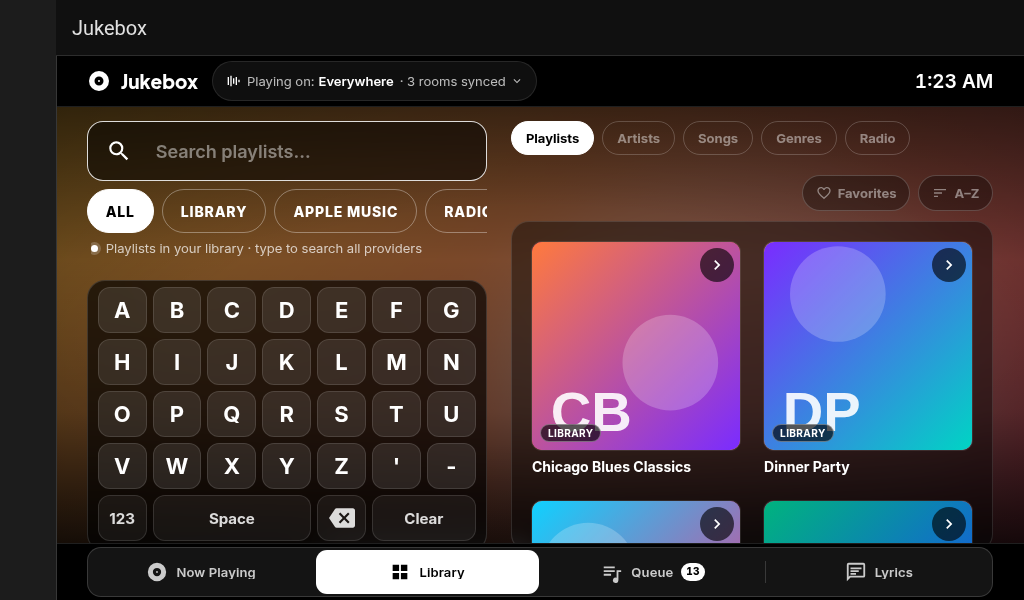
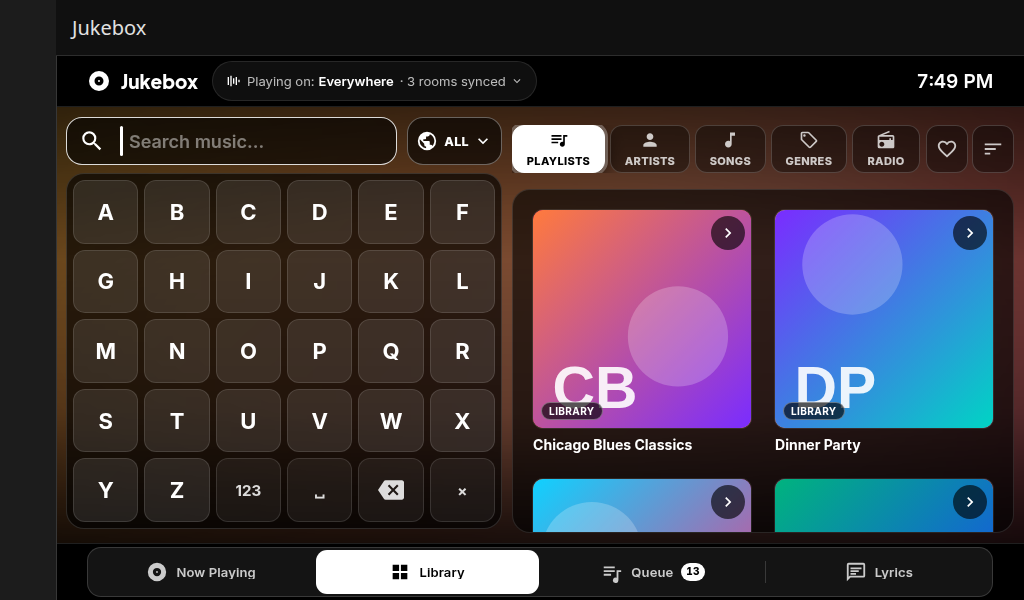
docs: filled 6×5 Library keyboard and side layout
Describe the always-open Library keyboard after #19 and replace the
Library screenshots so they match the shipped grid. Version stays 0.7.4.

diff --git a/README.md b/README.md
@@ -13,12 +13,12 @@ The card's element is still `custom:jukebox-card`, so existing dashboards keep w
 
 ## Screenshots
 
-**One Library tab, keyboard always open.** The on-screen keyboard stays open on every screen size. Beside the search box is an **All sources** button. Tap it and a row opens under the box: All, Library, then each music service set up in Music Assistant. You can turn on more than one. The button names the ones you picked and turns white while any is on. Tap it again to close the row. Big buttons pick Playlists, Artists, Songs, Genres or Radio, and the one you are in is solid white. On the library list, a heart and a sort button (A–Z) sit at the end of that row. There is no Keyboard pill and no hide handle. An empty box lists your library; typing searches that category, library first.
+**One Library tab, keyboard always open.** The on-screen keyboard stays open on every screen size. It is a full grid of 6 columns and 5 rows. On a tablet or a wider screen, including a portrait tablet, the keyboard sits on the left. The search box and the **All sources** button sit directly above the keys, and the category buttons and the results sit on the right. On a phone held upright the same keyboard sits along the bottom, with the search, the category buttons and the results above it. On a phone turned sideways the keyboard stays on the left and the search box stays with the results. Beside the search box is an **All sources** button. Tap it and a row opens under the box: All, Library, then each music service set up in Music Assistant. You can turn on more than one. On this layout the button reads **All**, or how many are on (for example **2 on**), and it turns white while any is on. Tap it again to close the row. Big buttons pick Playlists, Artists, Songs, Genres or Radio, and the one you are in is solid white. On the library list, a heart and a sort button sit at the end of that row. There is no Keyboard pill and no hide handle. An empty box lists your library; typing searches that category, library first.
 
 | Library (empty box) | Typing, all sources |
 |---|---|
 | ![Library](https://raw.githubusercontent.com/randybell/ha-jukebox-kiosk/main/docs/library-1280x800.png) | ![Library search, all sources](https://raw.githubusercontent.com/randybell/ha-jukebox-kiosk/main/docs/library-search-1280x800.png) |
-| **All sources open, two services on** | **Typing, Spotify only (820x1180)** |
+| **All sources open, two services on** | **Spotify only, keyboard on the left (820x1180)** |
 | ![All sources open](https://raw.githubusercontent.com/randybell/ha-jukebox-kiosk/main/docs/library-sources-1280x800.png) | ![Library search, Spotify only](https://raw.githubusercontent.com/randybell/ha-jukebox-kiosk/main/docs/library-provider-820x1180.png) |
 
 ![Now Playing at 1920x1080](https://raw.githubusercontent.com/randybell/ha-jukebox-kiosk/main/docs/now-1920x1080.png)
@@ -231,10 +231,10 @@ The layout is designed around a 1280x800 tablet. On larger screens the whole car
 
 - **One tab.** Since 0.7.2 the **Library** tab (`library_label`) is where you browse and search; there is no Search tab and no tile home by default (`library_layout: combined`).
 - **Search box, with All sources beside it.** The box uses the on-screen keyboard and searches on every keystroke (see [How search behaves](#how-search-behaves)). **All sources** sits next to the box. Tap it to open a row under the box: **All** (the usual choice), **Library**, then the music services set up in Music Assistant, using the names you gave them. A service that is not available is left out. The row wraps when there are many, and on a phone it scrolls sideways. It does not cover the screen. Tap **All sources** again to close the row.
-  - **Picking more than one.** Tapping a service while All is on selects just that service. Tapping more adds them. Tapping a selected one turns it off. When none is left, it goes back to **All**. Tapping **All** clears the others. While any are picked, the button turns white. On a larger screen it shows their names (for example "Apple Music + TuneIn"), shortened if they do not fit; the open row still shows each name in full. On a phone the button says **All**, or how many are on (for example "2 on"). The line under the box names the same selection.
+  - **Picking more than one.** Tapping a service while All is on selects just that service. Tapping more adds them. Tapping a selected one turns it off. When none is left, it goes back to **All**. Tapping **All** clears the others. While any are picked, the button turns white. With the keyboard always open, the button reads **All**, or how many are on (for example **2 on**); on a phone it is the globe icon only. The open row still shows each name in full, and the line under the box is hidden. With `library_keyboard: tap`, and on the separate Search tab, a larger screen shows the names on the button (for example "Apple Music + TuneIn"), shortened if they do not fit, a phone says **All** or how many are on, and the line under the box names the selection.
   - `search_sources: false` hides the button and the row.
-- **Category buttons.** Big buttons with an icon and a name: Playlists (where the tab opens), Artists, Songs, Genres, Radio. The one you are in is solid white. Albums, Podcasts and Audiobooks appear only if you list them in `library_categories`, which also sets the order.
-- **Favorites and sort.** On the library list (nothing typed, and All or Library chosen) two small buttons sit at the end of the category row. The heart shows favorites only. The other button shows the current sort and cycles A–Z, then Recently added, then Recently played. Radio opens on Popular (stations you have played the most), then A–Z, Recently added and Recently played. Genres cycle A–Z and Recently added, and they have no heart. These buttons are hidden while you are typing, while a music service is chosen, while Search in an artist or album is on, or on a detail page. On a phone, and on a very short screen, the sort button is only the icon. Favorites and sort are no longer chips in a bar above the list.
+- **Category buttons.** Big buttons with an icon and a name: Playlists (where the tab opens), Artists, Songs, Genres, Radio. The one you are in is solid white. Albums, Podcasts and Audiobooks appear only if you list them in `library_categories`, which also sets the order. With the keyboard always open, a phone shows the icons only.
+- **Favorites and sort.** On the library list (nothing typed, and All or Library chosen) two small buttons sit at the end of the category row. The heart shows favorites only. The other button cycles A–Z, then Recently added, then Recently played. Radio opens on Popular (stations you have played the most), then A–Z, Recently added and Recently played. Genres cycle A–Z and Recently added, and they have no heart. These buttons are hidden while you are typing, while a music service is chosen, while Search in an artist or album is on, or on a detail page. With the keyboard always open, the sort button is the icon only. With `library_keyboard: tap`, the sort button shows its letters except on a phone and on a very short screen. Favorites and sort are no longer chips in a bar above the list.
 - **Empty box, All or Library alone:** the library list of the selected category. Genres lists `music/genres/library_items`; a genre opens its page.
 - **Typed text:** results for the selected category and source only. With **All**, library matches come first ("In your library"), then provider results ("From your providers"); **Library** shows library matches only; providers send one `music/search` with all of them in `providers`; **Library** plus providers shows library matches first, then those providers.
 - **Provider with an empty box:** one provider shows its folders (`music/browse <provider>://`, admins) or an inline hint "Type to search <provider>"; several providers show the inline hint ("Type to search Apple Music + TuneIn") — never a popup.
@@ -314,12 +314,13 @@ The layout is designed around a 1280x800 tablet. On larger screens the whole car
 
   Ctrl, Alt and Meta shortcuts are ignored.
 - **On-screen keyboard:**
-  - 7 columns when narrow, 10 with a number row when wide.
-  - `123` / `#+=` switches to symbols.
-  - Holding backspace clears the query.
-  - Keys fire on release (pointerup), so a touch that slides off a key does not type.
-  - On the combined Library tab the keyboard is always shown, on every screen size (no hide handle, no "Keyboard" button): the search box, the All sources button, the category buttons and the list sit around it, and a guest can just start typing. On short phones the keys get smaller and the status line under the search box is dropped so a row of the list stays visible. `library_keyboard: tap` is an optional fallback for small screens (see [Options](#options)).
-  - With `library_keyboard: tap`, and on the separate (0.7.1) Search tab, you can hide the keyboard in portrait with its handle; a "Keyboard" button brings it back.
+  - Keys fire on release (pointerup), so a touch that slides off a key does not type. Holding backspace clears the query.
+  - **Combined Library tab, keyboard always open** (the default): a filled grid of 6 columns and 5 rows (30 keys, no empty spots). The last row of letters is Y, Z, 123, Space, Backspace and Clear. Space and Clear are the short marks ␣ and ×. The apostrophe and the hyphen are on the numbers page (tap 123), not with the letters.
+  - On a tablet or a wider screen that keyboard sits on the left. The search box and All sources sit directly above the keys. The category buttons and the results sit on the right. A portrait tablet (820x1180) uses this same side layout.
+  - On a phone held upright (about 390x844, screens up to about 520 px wide) the keyboard sits at the bottom. The search box, the category buttons and the results sit above it.
+  - On a phone turned on its side the keyboard stays on the left, and the search box sits above the results on the right.
+  - There is no hide handle and no Keyboard button, so a guest can just start typing.
+  - **Older keyboard** (`library_keyboard: tap`, and the separate Search tab): 7 columns when the keyboard is narrow, and 10 columns with a number row when it is wide. `123` / `#+=` switches to symbols. In portrait you can hide it with its handle; a Keyboard button brings it back. On a landscape tablet this keyboard still sits on the left. See [Options](#options).
 - **Focus.** No keyboard ever pops up: there is no input, textarea or contenteditable element anywhere. Every button is `tabindex=-1` and calls `preventDefault` on pointerdown, except the active bottom tab (0.5.0), which is the tab bar's one keyboard stop: ←/→/Home/End switch tabs. A focusin guard blurs anything editable.
 
 
@@ -389,7 +390,7 @@ Entity ids in the [configuration example](#configuration) are examples. The defa
 | `hearts` | `true` | *(0.7)* A favourite heart on Search and Library rows and tiles, on playlist rows and on album, artist and playlist pages. See [Favourites (hearts)](#favourites-hearts). Needs the Jukebox Kiosk backend and the `library` class. `false` keeps the 0.6 hearts only (Search radio rows, the station sheet and Now Playing) |
 | `show_autoplay` | `false` | *(0.7)* Autoplay (Music Assistant "don't stop the music") toggle in the Queue header plus an indicator on Now Playing. Jukebox Kiosk backend, class `queue` |
 | `radio_favorites_only` | `false` | *(0.7)* Browse › Radio **My stations** lists favourite stations only. Default: favourites first, then the other library stations |
-| `library_keyboard` | `always` | *(0.7.3, combined Library tab)* `always`: the on-screen keyboard is always shown on every screen size. `tap`: optional fallback for small screens: in portrait and on phones the list shows first and tapping the search box opens the keyboard (landscape tablets keep it on the left either way) |
+| `library_keyboard` | `always` | *(combined Library tab)* `always`: the keyboard stays open as a full 6 by 5 grid. On a tablet or a wider screen it sits on the left, with the search box and All sources directly above the keys and the results on the right. On a phone held upright it sits at the bottom. On a phone turned sideways it stays on the left, with the search box beside it. `tap`: on a phone or in portrait the list shows first, and tapping the search box opens the older keyboard. A landscape tablet still keeps that keyboard on the left |
 | `library_layout` | `combined` | *(0.7.2)* `combined`: one Library tab with the search box, the All sources button and the big category buttons (no Search tab). `separate`: the 0.7.1 Library + Search tabs |
 | `library_categories` | `[playlist, artist, track, genre, radio]` | *(0.7.2)* Category buttons in order; also `album`, `podcast`, `audiobook` |
 | `search_sources` | `true` | *(0.7.2)* On the combined Library tab, the **All sources** button beside the search box (All, Library, then your Music Assistant services; you can pick more than one). On the separate Search tab those buttons stay in a row under the box. `false` hides them. Jukebox Kiosk and mass_queue backends |

diff --git a/CHANGELOG.md b/CHANGELOG.md
@@ -4,6 +4,9 @@ All notable changes to Jukebox Card. Versions follow [semver](https://semver.org
 
 ## Unreleased
 
+### Changed
+- **Library keyboard.** On the combined Library tab the always-open keyboard is a full grid, 6 columns by 5 rows, with no empty keys. The bottom row of letters is Y, Z, 123, Space, Backspace and Clear. Space and Clear show as ␣ and ×. The apostrophe and the hyphen are on the 123 page, not with the letters. On a tablet or a wider screen the keyboard sits on the left, the search box and All sources sit just above the keys, and the category buttons and results sit on the right. On a phone held upright the keyboard sits at the bottom. On a phone turned sideways the keyboard stays on the left and the search box stays with the results. All sources reads All, or how many are on. Colours and fonts are unchanged. `library_keyboard: tap` and the separate Search tab keep the older keyboard.
+
 ## 0.7.4 — 2026-11-05
 
 ### Changed
